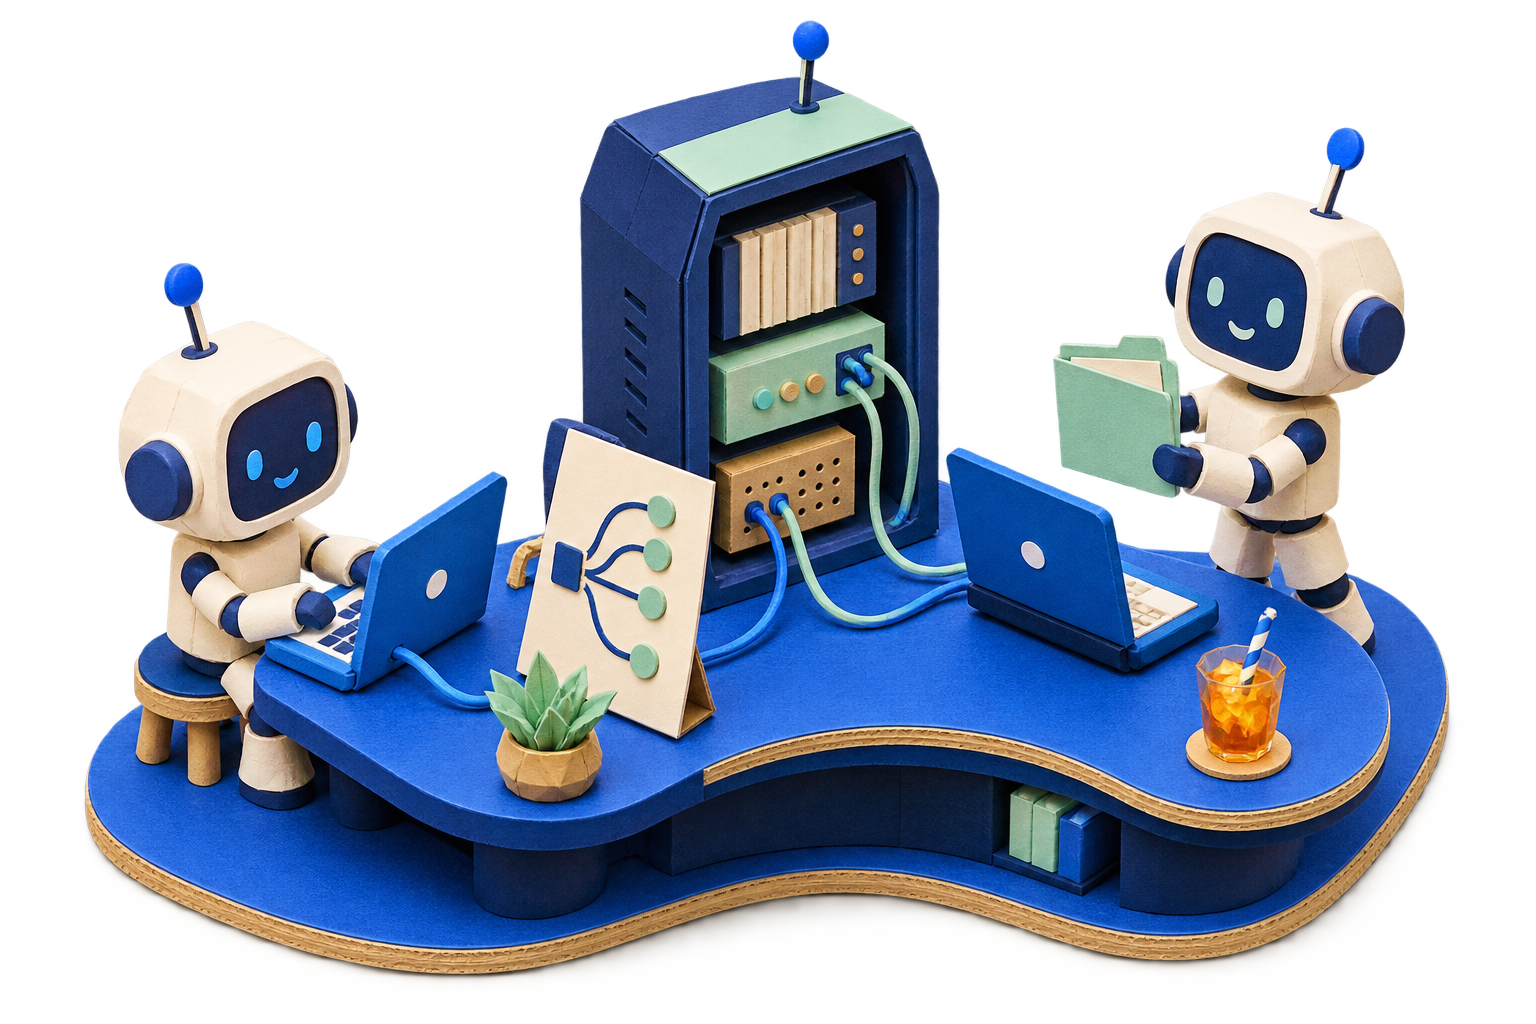
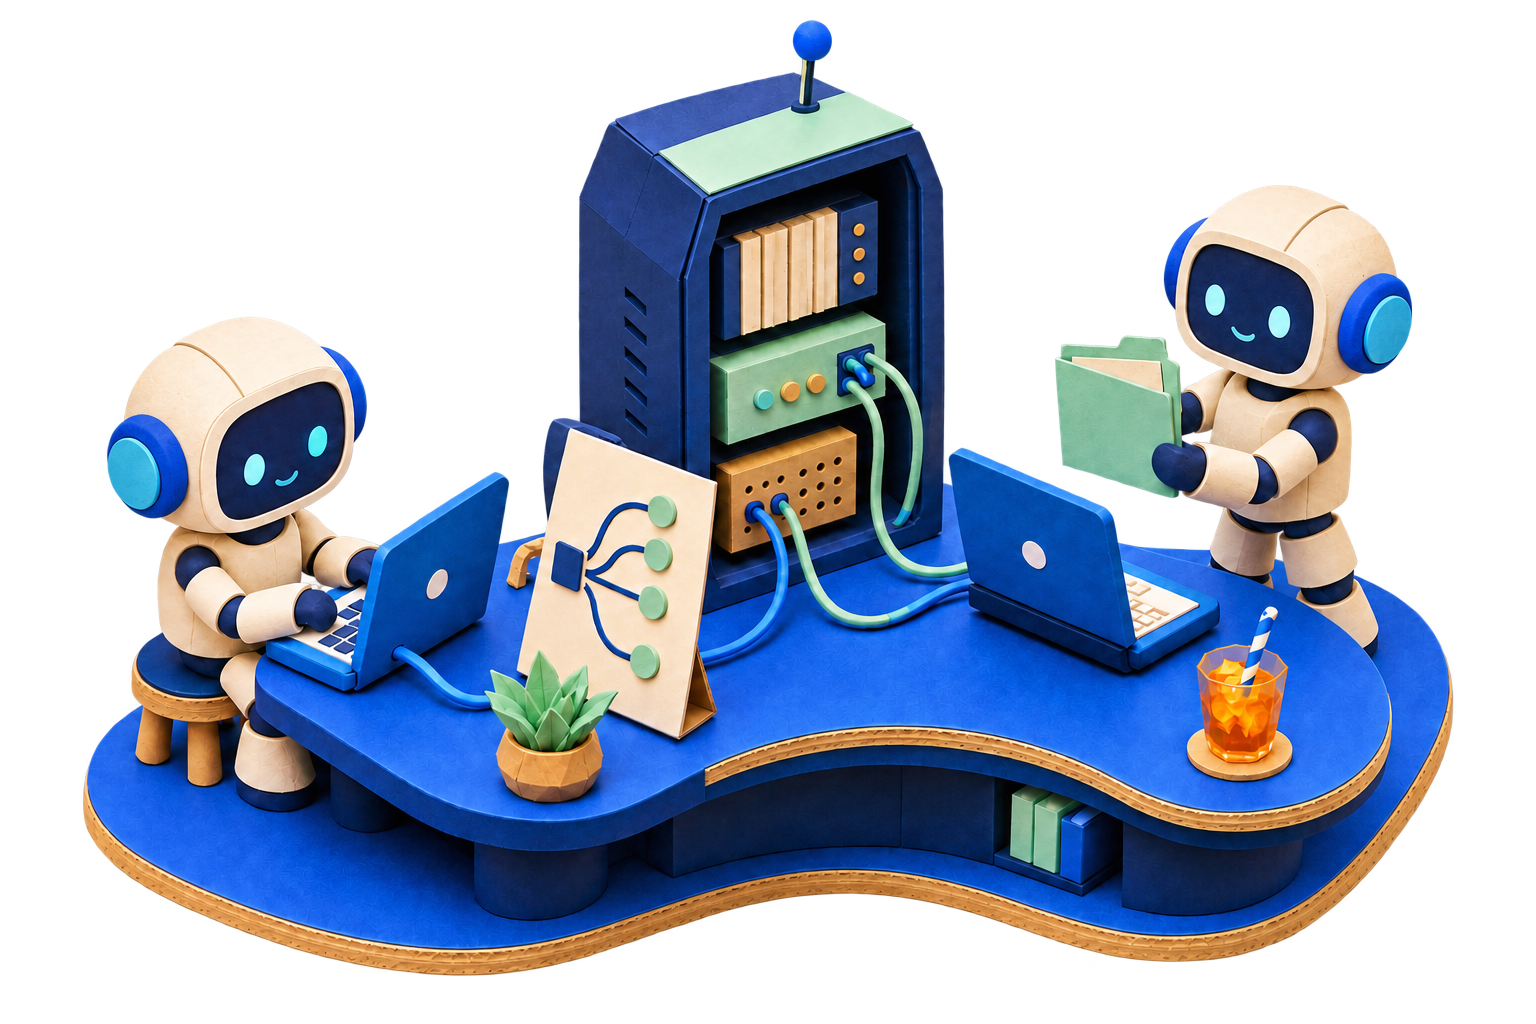
fix(art): align home robots with shared character

diff --git a/docs/page-illustration-checklist.md b/docs/page-illustration-checklist.md
@@ -726,6 +726,7 @@ Admin layout consolidation: all 18 local leaf callers and 15 additional stock ad
 
 ### Approved public-home artwork verification
 
+- User-requested robot consistency edit replaces both characters in `home-papercraft.png` with the dashboard identity, removing robot antennas while retaining the server antenna and shared-workstation composition. Exact built-in generation prompts: `assets/branding/forgejo/home-art-prompt.md`. Verified 1536×1024 RGBA, alpha 0–254; native desktop capture `.artifacts/screenshots/capture-gq51pj/001.png` inspected with clean transparency and no overlap. Earlier captures show the previous character variant. This asset is also used by setup; setup remains unverified on an uninstalled instance. No templates/CSS changed; no automated tests rerun for this image-only edit.
 - Retain the distinct shared-workbench illustration. Full home template reviewed: native sign-in/explore destinations, registration-availability message branch, theme control and feature content. No new image needed.
 - Native guest desktop `.artifacts/screenshots/capture-G7cFAz/001.png` (1440×1000) shows the full scene beside welcome text. Mobile `.artifacts/screenshots/capture-wwIDbQ/001.png` (390×844) places art below the account/navigation content; the viewport cuts through the scene naturally. Additional `.artifacts/screenshots/capture-gA6bYa/001.png` (390×1200) confirms the entire mobile illustration fits without horizontal clipping or overlap.
 - Local registration-disabled guidance is visible; enabled-registration branch was not exercised. No settings changed or forms submitted. Documentation-only evidence update; no tests rerun. Next: setup and dashboard/notification artwork.

diff --git a/assets/branding/forgejo/home-art-prompt.md b/assets/branding/forgejo/home-art-prompt.md
@@ -1,0 +1,13 @@
+# Home robot consistency edit
+
+Built-in image tool. References: previous `home-papercraft.png` as target and `dashboard-papercraft.png` as identity reference. Final original `exec-e6fdb3b2-976c-4263-ab98-d648f3de7c3c.png` retained in this task's Codex generated-images directory and copied unchanged. Verified 1536×1024 RGBA, alpha range 0–254. Initial RGB output rejected for painted background.
+
+## Identity edit
+
+Use case: precise-object-edit. Image 1 is the home illustration to edit. Image 2 is the exact canonical robot reference. Make a small consistency correction to BOTH robots in image 1: match image 2's rounded cream cardstock helmet and seam, navy inset face, luminous cyan oval eyes and tiny thin cyan smile, cobalt circular ears with cyan centers, navy mitten hands and joints. Remove the antennas from the two ROBOTS only; keep the server's antenna. Preserve both poses, positions, scale, laptops, mint folder, server, cables, diagram board, plant, drink, blue desk/platform, lighting, camera and entire scene. No other redesign. Preserve transparent background, deliver genuine RGBA PNG 1536x1024 with alpha, not a painted checkerboard.
+
+## Transparency correction
+
+Input: `exec-7dd1448e-1aca-4391-8f05-8ea24944a7b0.png`.
+
+Remove the background from this image, including the gray and white checkerboard. Deliver the papercraft diorama as an isolated transparent-background PNG with alpha transparency. Keep the scene unchanged.
